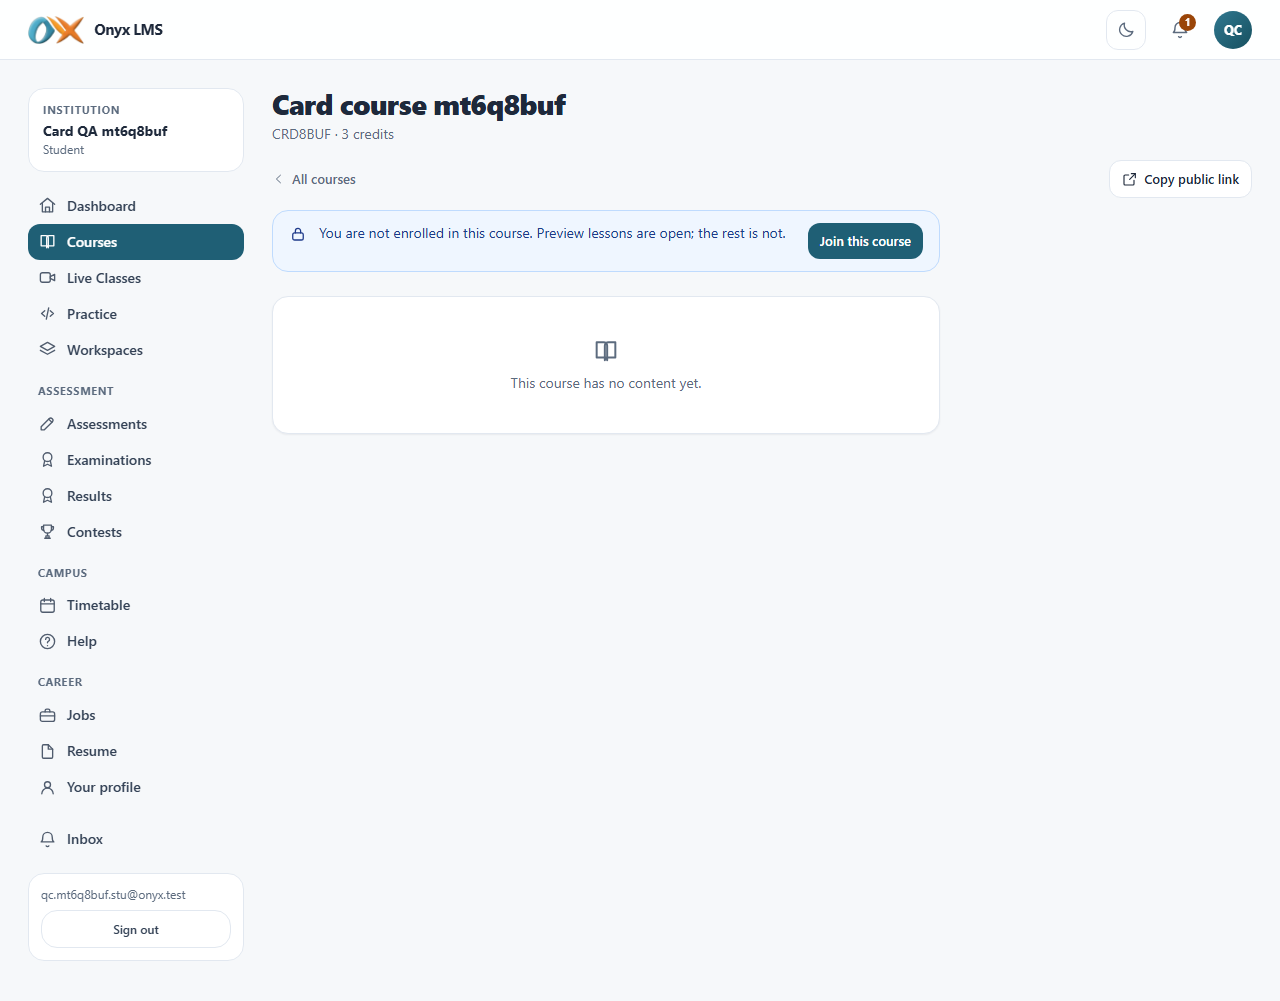
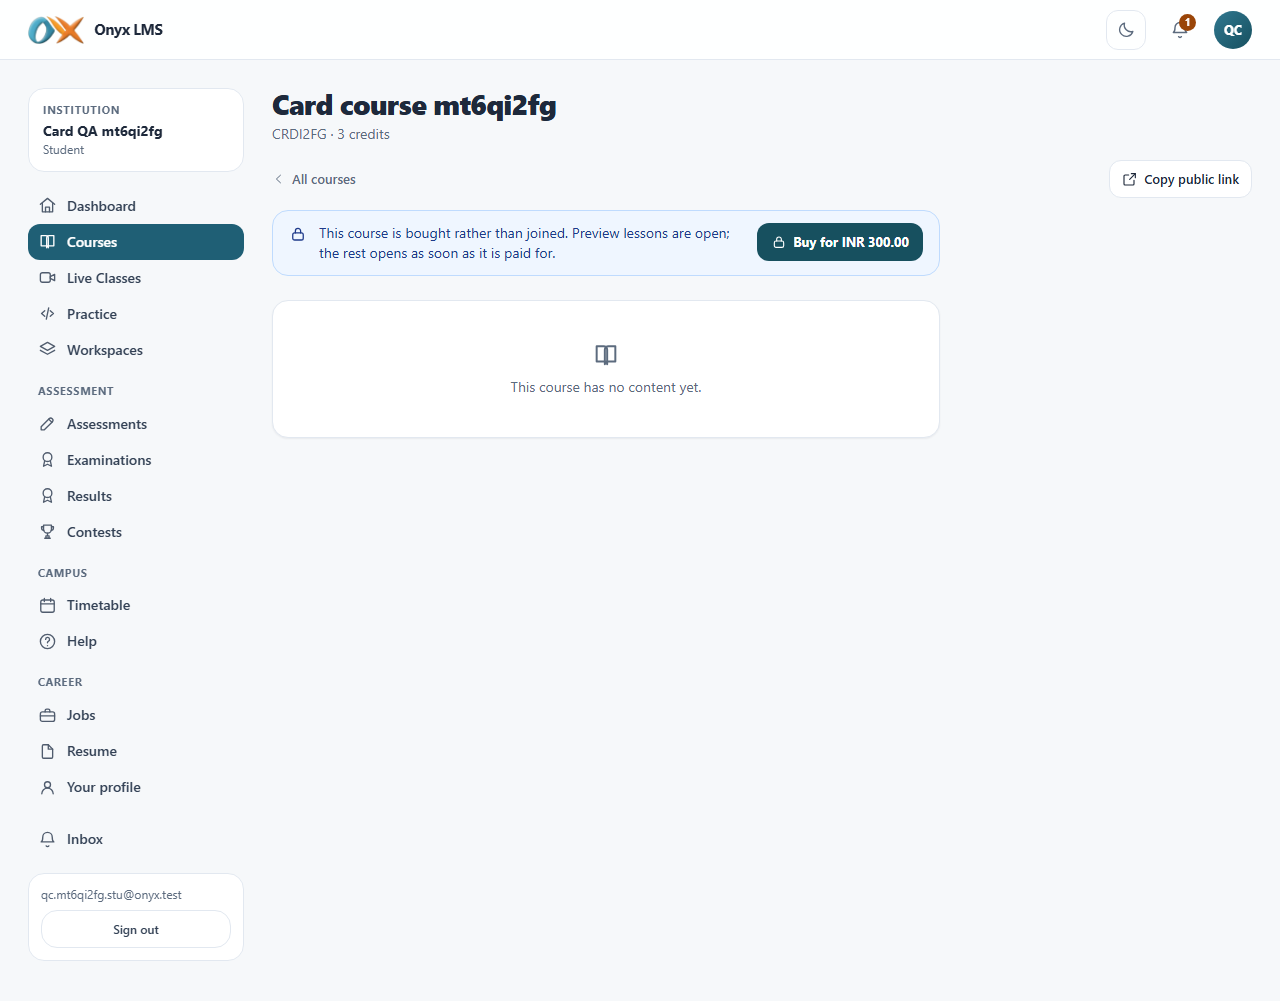
v2: prices wear the rupee sign, in the five places that had grown their own
Five screens had each grown the same three lines -- currency code, rupees,
paise -- and all five printed "INR 300.00" on a product whose price fields,
catalogue and fee tables say "₹300.00". A buy button is the worst place to be
the odd one out: it is the last thing somebody reads before they are charged,
and a currency CODE reads like a bank statement where the symbol reads like a
price. One helper now, and anything that is not INR keeps its ISO code, because
there is no symbol worth guessing at and "$40.00" would quietly conflate
several dollars.

diff --git a/apps/web/src/lib/onyx-money.ts b/apps/web/src/lib/onyx-money.ts
@@ -1,0 +1,33 @@
+/**
+ * An amount of money, written the way the person reading it writes it.
+ *
+ * Five screens had grown the same three lines -- `currency + ' ' + rupees +
+ * '.' + paise` -- and all five printed "INR 300.00" on a product whose price
+ * fields, catalogue and fee tables all say "₹300.00". A buy button is the
+ * worst place to be the odd one out: it is the last thing somebody reads
+ * before they are charged, and a currency CODE reads like a bank statement
+ * where the symbol reads like a price.
+ *
+ * The code is still what appears for anything that is not INR, because there
+ * is no symbol worth guessing at and "USD 40.00" is unambiguous where "$40.00"
+ * would quietly conflate several dollars.
+ */
+
+/** Symbols worth showing. Everything else keeps its ISO code. */
+const SYMBOLS: Record<string, string> = { INR: '₹' };
+
+/**
+ * @param minor  integer minor units -- paise, cents. The only form money
+ *               takes in this product, because floating-point rupees is how
+ *               a ledger ends up a paisa out.
+ */
+export function money(minor: number, currency: string = 'INR'): string {
+  const code = String(currency || 'INR').toUpperCase();
+  const symbol = SYMBOLS[code];
+  const whole = Math.floor(Math.abs(minor) / 100).toLocaleString('en-IN');
+  const paise = String(Math.abs(minor) % 100).padStart(2, '0');
+  const sign = minor < 0 ? '-' : '';
+  return symbol
+    ? sign + symbol + whole + '.' + paise
+    : sign + code + ' ' + whole + '.' + paise;
+}

diff --git a/apps/web/src/components/onyx-domain-registrations.tsx b/apps/web/src/components/onyx-domain-registrations.tsx
@@ -1,4 +1,5 @@
 import { Card, DataTable, EmptyRow, Pill, SectionHead } from '@/components/onyx-ui';
+import { money } from '@/lib/onyx-money';
 
 /**
  * Who has signed up for one Live Class.
@@ -35,10 +36,9 @@ const STATUS: Record<string, { label: string; tone: 'good' | 'soon' | 'late' }> 
   failed: { label: 'Failed', tone: 'late' },
 };
 
-function money(minor: number, currency: string): string {
-  if (!minor) return 'Free';
-  return currency + ' ' + Math.floor(minor / 100).toLocaleString('en-IN')
-    + '.' + String(minor % 100).padStart(2, '0');
+/** Free is a price too, and the one worth saying in words. */
+function priced(minor: number, currency: string): string {
+  return minor ? money(minor, currency) : 'Free';
 }
 
 /** A date somebody can act on, not an ISO string. */
@@ -105,7 +105,7 @@ export function DomainRegistrations({ rows }: { rows: DomainRegistration[] }) {
                   </a>
                   : <span className="text-muted">Not given</span>}
               </td>
-              <td className="tabular-nums">{money(r.amount_minor, r.currency)}</td>
+              <td className="tabular-nums">{priced(r.amount_minor, r.currency)}</td>
               <td className="whitespace-nowrap">{when(r.created_at)}</td>
               <td>
                 <Pill tone={STATUS[r.status]?.tone ?? 'neutral'}>

diff --git a/apps/web/src/components/onyx-buy.tsx b/apps/web/src/components/onyx-buy.tsx
@@ -2,6 +2,7 @@
 
 import { useState, useTransition } from 'react';
 import { useRouter } from 'next/navigation';
+import { money } from '@/lib/onyx-money';
 import { Icon } from '@/components/onyx-ui';
 import { Modal } from '@/components/onyx-modal';
 import { completeCheckout } from '@/lib/onyx-checkout-client';
@@ -44,9 +45,7 @@ export function BuyCourseButton({ courseId, title, price, currency, compact, gat
   const [error, setError] = useState<string | null>(null);
   const [pending, start] = useTransition();
 
-  const amount = currency + ' '
-    + Math.floor(price / 100).toLocaleString('en-IN')
-    + '.' + String(price % 100).padStart(2, '0');
+  const amount = money(price, currency);
 
   /** The mock: one post, recorded, enrolled. */
   const buyMock = () => start(async () => {

diff --git a/apps/web/src/app/page.tsx b/apps/web/src/app/page.tsx
@@ -1,6 +1,7 @@
 import Link from 'next/link';
 import { apiSafe, type SiteSettings } from '@/lib/api';
 import { Icon, type IconName } from '@/components/onyx-ui';
+import { money } from '@/lib/onyx-money';
 
 export const revalidate = 60;
 
@@ -366,7 +367,7 @@ export default async function HomePage() {
                         they close. */}
                     <span className="text-[17px] font-extrabold tabular-nums">
                       {c.access === 'locked'
-                        ? c.currency + ' ' + Math.floor(c.price_minor / 100).toLocaleString('en-IN')
+                        ? money(c.price_minor, c.currency)
                         : 'Free'}
                     </span>
                     {/* To the course, not to a form. Somebody deciding whether

diff --git a/apps/web/src/components/onyx-domain-register.tsx b/apps/web/src/components/onyx-domain-register.tsx
@@ -2,6 +2,7 @@
 
 import { useState, useTransition } from 'react';
 import { useRouter } from 'next/navigation';
+import { money } from '@/lib/onyx-money';
 import { Icon } from '@/components/onyx-ui';
 import { Modal } from '@/components/onyx-modal';
 import { completeCheckout } from '@/lib/onyx-checkout-client';
@@ -44,9 +45,7 @@ export function RegisterForDomain({ domainId, title, price, currency, gateway, r
   const [pending, start] = useTransition();
 
   const free = price <= 0;
-  const amount = currency + ' '
-    + Math.floor(price / 100).toLocaleString('en-IN')
-    + '.' + String(price % 100).padStart(2, '0');
+  const amount = money(price, currency);
 
   if (registered) {
     return (

diff --git a/apps/web/src/app/onyx/c/[id]/page.tsx b/apps/web/src/app/onyx/c/[id]/page.tsx
@@ -1,4 +1,5 @@
 import type { Metadata } from 'next';
+import { money } from '@/lib/onyx-money';
 import Link from 'next/link';
 import { notFound } from 'next/navigation';
 import { appOrigin } from '@/lib/app-origin';
@@ -56,9 +57,7 @@ const TYPE_ICON: Record<string, 'play' | 'book' | 'file' | 'external'> = {
   video: 'play', text: 'book', document: 'file', image: 'file', link: 'external',
 };
 
-const money = (minor: number, currency: string) =>
-  currency + ' ' + Math.floor(minor / 100).toLocaleString('en-IN')
-  + '.' + String(minor % 100).padStart(2, '0');
+
 
 /**
  * A course's own page, for people who do not have an account.
